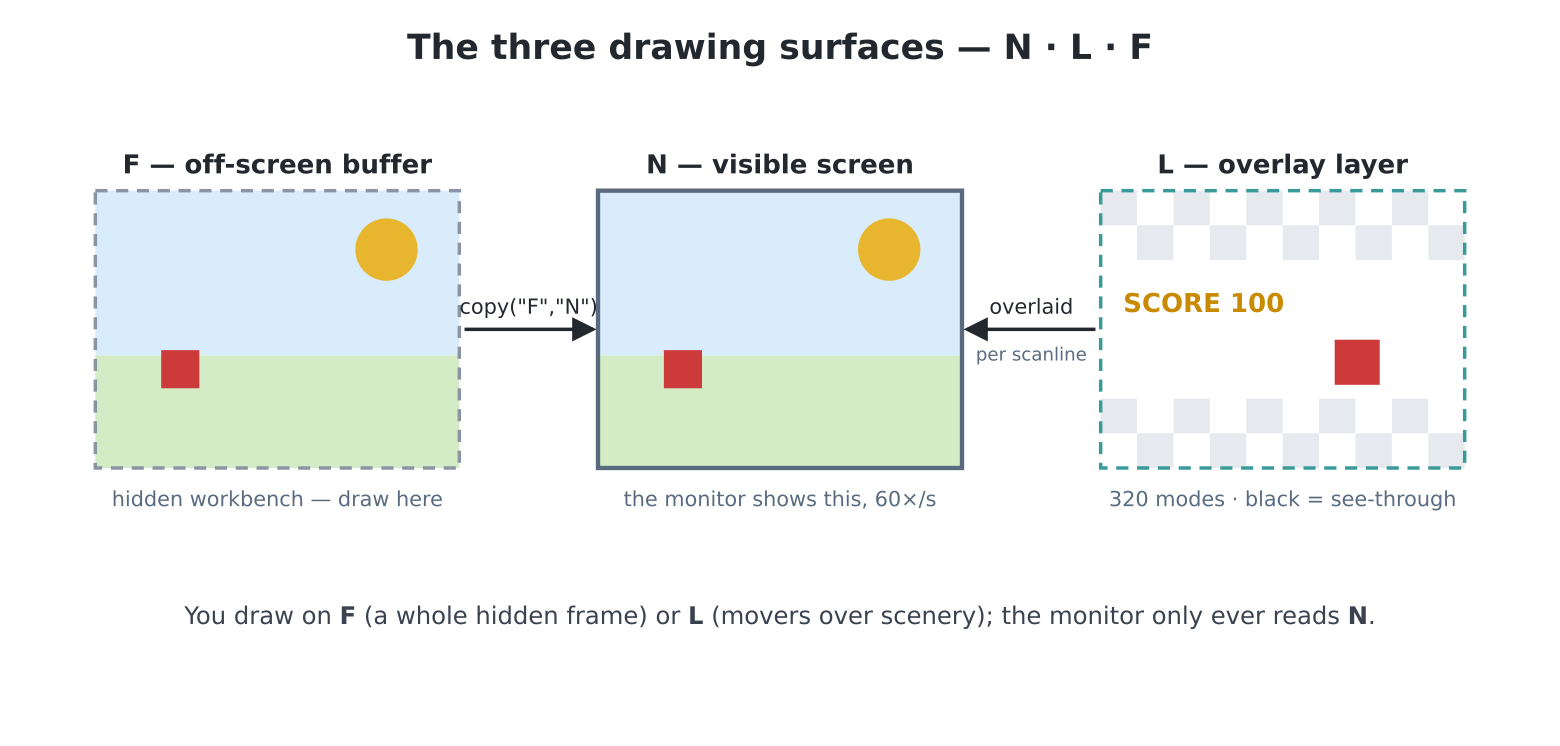
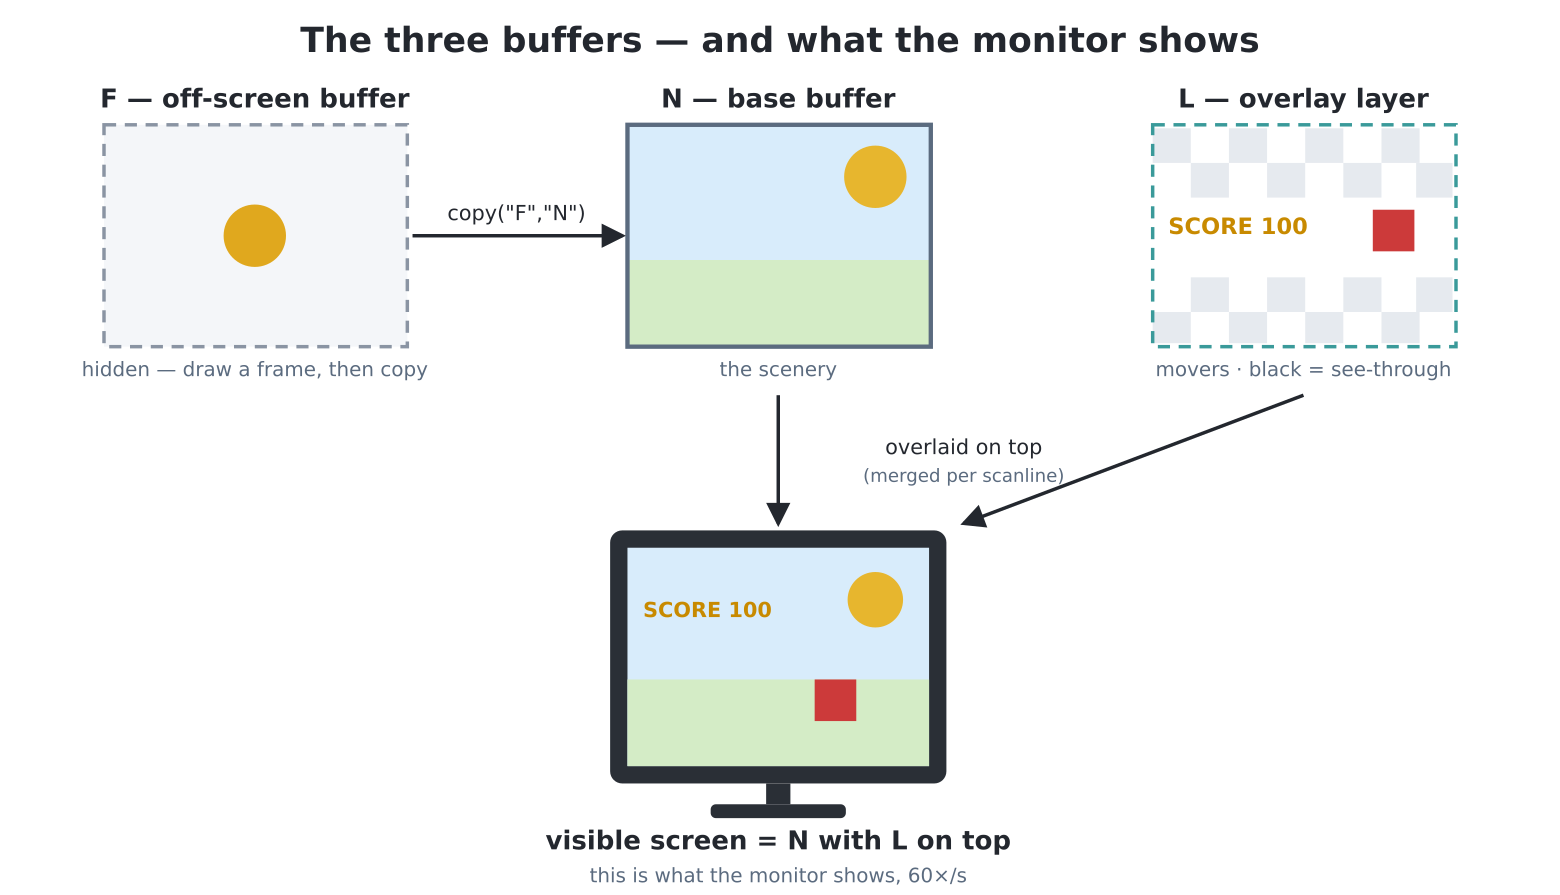
rp2/PICO_COMPUTER_3: book -- fix 17-buffers-nlf (N+L compositing)
Redraw the three-surfaces figure and its caption. The visible screen is
not the N buffer alone -- it is N with L composited on top. Now shows N
(base buffer, scenery only) and L (transparent overlay, the movers) as
distinct surfaces, both feeding a monitor that displays their
combination; F holds just the drawn dot and copies into N.

diff --git a/ports/rp2/boards/PICO_COMPUTER_3/book/17-smooth-motion.md b/ports/rp2/boards/PICO_COMPUTER_3/book/17-smooth-motion.md
@@ -314,7 +314,7 @@ for _ in range(200):
 
 ## Choosing your weapon
 
-![The three drawing surfaces this chapter has given you. `N` is the visible screen the monitor reads 60×/s; `F` is a hidden off-screen buffer you compose a whole frame on, then `copy` to `N`; `L` is a transparent overlay (the 320 modes only) for movers over untouched scenery, where black means see-through.](figs/17-buffers-nlf.png)
+![The three drawing surfaces this chapter has given you. `N` is the base buffer (usually the scenery); `L` is a transparent overlay for movers (the 320 modes only), where black means see-through; `F` is a hidden off-screen buffer you compose a whole frame on, then `copy` into `N`. What the monitor actually shows is `N` with `L` composited on top — the visible screen is the *combination* of the two, not `N` alone.](figs/17-buffers-nlf.png)
 
 | Scene | Tool |
 |---|---|
